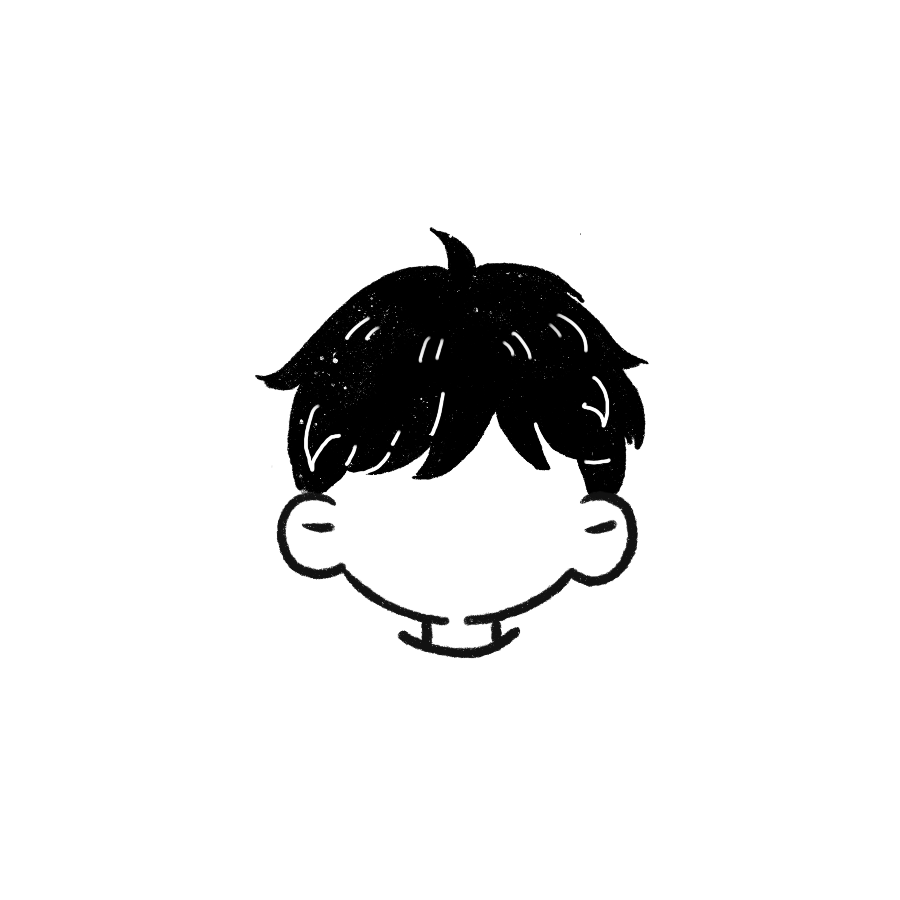
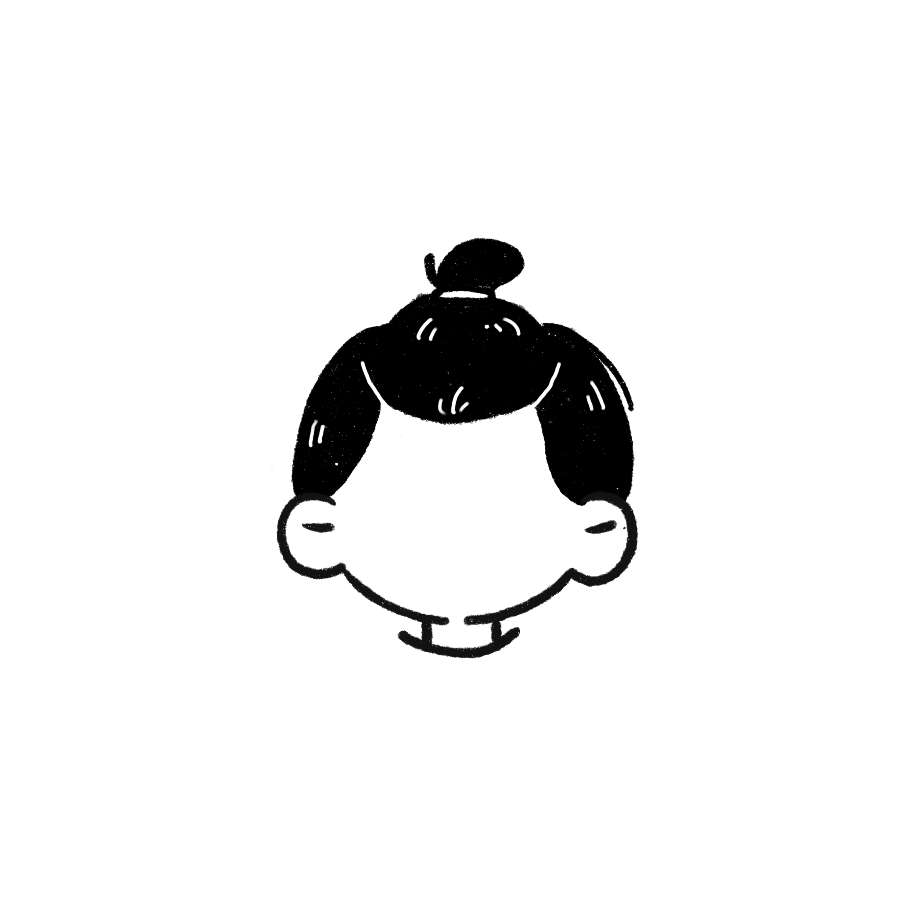
accessories are done

Changed region(s): [[0.28, 0.2489, 0.7156, 0.56]]

diff --git a/frontend/screens/AvatarCreation.js b/frontend/screens/AvatarCreation.js
@@ -20,7 +20,7 @@ const AvatarCreation = ({ }) => {
   const [selectedHair, setSelectedHair] = useState(null);
   const [selectedFace, setSelectedFace] = useState(null);
   const [selectedSkinColor, setSelectedSkinColor] = useState(null);
-  const [showFaces, setShowFaces] = useState(false);
+  const [selectedAccessory, setSelectedAccessory] = useState(null);
   const navigation = useNavigation();
   const viewShotRef = useRef(null);
   const route = useRoute();
@@ -58,8 +58,8 @@ const AvatarCreation = ({ }) => {
     { id: "10", image: require("../../frontend/assets/dark_hair/hair-m1-dark-new.png") },
     { id: "11", image: require("../../frontend/assets/dark_hair/hair-m2-dark-new.png") },
     { id: "12", image: require("../../frontend/assets/dark_hair/hair-m3-dark-new.png") },
-    { id: "13", image: require("../../frontend/assets/dark_hair/hair-m5-dark-new.png") },
-    { id: "14", image: require("../../frontend/assets/dark_hair/hair-m6-dark-new.png") },
+    { id: "13", image: require("../../frontend/assets/dark_hair/hair-m4-dark-new.png") },
+    { id: "14", image: require("../../frontend/assets/dark_hair/hair-m5-dark-new.png") },
   ];
 
   const light_hair = [
@@ -75,8 +75,8 @@ const AvatarCreation = ({ }) => {
     { id: "10", image: require("../../frontend/assets/light_hair/hair-m1-light-new.png") },
     { id: "11", image: require("../../frontend/assets/light_hair/hair-m2-light-new.png") },
     { id: "12", image: require("../../frontend/assets/light_hair/hair-m3-light-new.png") },
-    { id: "13", image: require("../../frontend/assets/light_hair/hair-m5-light-new.png") },
-    { id: "14", image: require("../../frontend/assets/light_hair/hair-m6-light-new.png") },
+    { id: "13", image: require("../../frontend/assets/light_hair/hair-m4-light-new.png") },
+    { id: "14", image: require("../../frontend/assets/light_hair/hair-m5-light-new.png") },
   ];
 
   const faces = [
@@ -104,20 +104,35 @@ const AvatarCreation = ({ }) => {
     { id: "4", image: require("../../frontend/assets/skin_colors/skin-3.png") },
   ]
 
+  const accessories = [
+    { id: "1", image: require("../../frontend/assets/accessories/accessory-1.png") },
+    { id: "2", image: require("../../frontend/assets/accessories/accessory-2.png") },
+    { id: "3", image: require("../../frontend/assets/accessories/accessory-3.png") },
+    { id: "4", image: require("../../frontend/assets/accessories/accessory-4.png") },
+    { id: "5", image: require("../../frontend/assets/accessories/accessory-5.png") },
+    { id: "6", image: require("../../frontend/assets/accessories/accessory-6.png") },
+    { id: "7", image: require("../../frontend/assets/accessories/accessory-7.png") },
+    { id: "8", image: require("../../frontend/assets/accessories/accessory-8.png") },
+    { id: "9", image: require("../../frontend/assets/accessories/accessory-9.png") },
+  ]
+
+
+
   const displayedImages = (() => {
     if (whichScreen === 0) return isToggled ? light_hair : dark_hair;
     if (whichScreen === 1) return faces;
     if (whichScreen === 2) return skin_color;
+    if (whichScreen === 3) return accessories;
     return [];
   })();
-  
-  
+
 
   const renderRow = ({ item }) => {
     const isSelected =
       whichScreen === 0 && selectedHair?.id === item.id ||
       whichScreen === 1 && selectedFace?.id === item.id ||
-      whichScreen === 2 && selectedSkinColor?.id === item.id;
+      whichScreen === 2 && selectedSkinColor?.id === item.id ||
+      whichScreen === 3 && selectedAccessory?.id === item.id;
   
     return (
       <Pressable
@@ -125,6 +140,7 @@ const AvatarCreation = ({ }) => {
           if (whichScreen === 0) setSelectedHair(item);
           else if (whichScreen === 1) setSelectedFace(item);
           else if (whichScreen === 2) setSelectedSkinColor(item);
+          else if (whichScreen === 3) setSelectedAccessory(item);
         }}
         style={{ alignItems: "center" }}
       >
@@ -182,6 +198,15 @@ const AvatarCreation = ({ }) => {
                 resizeMode="contain"
               />
              )}
+
+            {selectedAccessory && (
+              <Image
+                source={selectedAccessory.image}
+                className="h-96 w-96 absolute"
+                resizeMode="contain"
+              />
+            )}
+
           </View>
         </ViewShot>
 
@@ -245,12 +270,12 @@ const AvatarCreation = ({ }) => {
           </TouchableOpacity>
 
           <Text className="text-custom-blue-200 text-4xl font-bold font-spaceGrotesk">
-            {["hair", "face", "skin color"][whichScreen]}
+            {["hair", "face", "skin color", "accessories"][whichScreen]}
           </Text>
 
 
           <TouchableOpacity
-            onPress={() => setWhichScreen(prev => Math.min(prev + 1, 2))}
+            onPress={() => setWhichScreen(prev => Math.min(prev + 1, 3))}
             disabled={whichScreen === 3}
           >
             <Text
